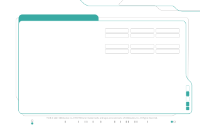
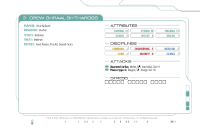
Dynamically-generated sheet with stress tracker and checkboxes

diff --git a/WebTools/src/exportpdf/generatedsheet.ts b/WebTools/src/exportpdf/generatedsheet.ts
@@ -1,5 +1,5 @@
-import { PDFDocument, PDFFont, PDFPage } from "@cantoo/pdf-lib";
-import { Column, FontSpecification, ICharacterSheet, LayoutHelper, Line, TextBlock } from "./icharactersheet";
+import { PDFDocument, PDFFont, PDFForm, PDFPage } from "@cantoo/pdf-lib";
+import { Column, ICharacterSheet, LayoutHelper } from "./icharactersheet";
 import fontkit from '@pdf-lib/fontkit'
 import { Construct } from "../common/construct";
 import i18next from "i18next";
@@ -13,6 +13,8 @@ import { WeaponType } from "../helpers/weapons";
 import { CHALLENGE_DICE_NOTATION } from "../helpers/talents";
 import { XYLocation } from "../common/xyLocation";
 import { Paragraph } from "./paragraph";
+import { FontSpecification } from "./fontSpecification";
+import { TextBlock } from "./textBlock";
 
 abstract class BasicGeneratedSheet implements ICharacterSheet {
 
@@ -95,8 +97,8 @@ export class BasicGeneratedHalfPageCharacterSheet extends BasicGeneratedSheet {
     connBlock: Column = new Column(322, 158, 11, 58);
     engineeringBlock: Column = new Column(400, 143, 11, 58);
     securityBlock: Column = new Column(400, 158, 11, 58);
-    scienceBlock: Column = new Column(478, 143, 11, 58);
-    medicineBlock: Column = new Column(478, 158, 11, 58);
+    medicineBlock: Column = new Column(478, 143, 11, 58);
+    scienceBlock: Column = new Column(478, 158, 11, 58);
 
     remainingBlock: Column = new Column(322, 198, 338-198, 550-322);
 
@@ -108,7 +110,7 @@ export class BasicGeneratedHalfPageCharacterSheet extends BasicGeneratedSheet {
 
     getName(): string {
         return i18next.t(makeKey('Sheet.', "BasicGeneratedHalfPageCharacterSheet"),
-            { "defaultValue": "New 2nd Ed.-style Character Sheet"});
+            { "defaultValue": "New Half-Page 2nd Ed.-style Character Sheet"});
     }
     getThumbnailUrl(): string {
         return '/static/img/sheets/STA_2e_Half_Page_Sheet.png'
@@ -121,12 +123,15 @@ export class BasicGeneratedHalfPageCharacterSheet extends BasicGeneratedSheet {
         await super.initializeFonts(pdf);
 
         this.textFont = this.formFont;
-        const headingFontName = getCurrentLanguageCode() === "ru" ? "/static/font/bebas-neue-cyr.ttf" : "/static/font/Michroma-Regular.ttf";
-        const fontBytes = await fetch(headingFontName).then(res => res.arrayBuffer());
-        this.headingFont = await pdf.embedFont(fontBytes);
-
         const boldFontBytes = await fetch("/static/font/OpenSansCondensed-Bold.ttf").then(res => res.arrayBuffer());
         this.boldFont = await pdf.embedFont(boldFontBytes);
+
+        if (getCurrentLanguageCode() === "ru") {
+            this.headingFont = this.boldFont;
+        } else {
+            const fontBytes = await fetch("/static/font/Michroma-Regular.ttf").then(res => res.arrayBuffer());
+            this.headingFont = await pdf.embedFont(fontBytes);
+        }
 
         const symbolFontBytes = await fetch("/static/font/Trek_Arrowheads.ttf").then(res => res.arrayBuffer());
         this.symbolFont = await pdf.embedFont(symbolFontBytes);
@@ -204,7 +209,45 @@ export class BasicGeneratedHalfPageCharacterSheet extends BasicGeneratedSheet {
         this.writeName(page, character);
 
         this.writeSubTitle(page, i18next.t("Construct.other.attacks"), this.attacksTitleBlock);
-        this.writeAttacks(page, character, this.remainingBlock);
+        let remainingSpace = this.writeAttacks(page, character, this.remainingBlock);
+        let remainingColumn = new Column(remainingSpace.x, remainingSpace.y + 16,
+            13, this.remainingBlock.width);
+
+        this.writeSubTitle(page, i18next.t("Construct.other.stress"), remainingColumn);
+        remainingColumn = this.remainingBlock.bottomAfter(30 + remainingSpace.y - this.remainingBlock.start.y);
+        if (remainingColumn) {
+            this.writeStressBoxes(page, pdf.getForm(), character, remainingColumn);
+        }
+    }
+
+    writeStressBoxes(page: PDFPage, form: PDFForm, character: Character, column: Column) {
+        let stressBox = "m 1,0 h 7.5 c 0.554,0 1,0.446 1,1 v 7.5 c 0,0.554 -0.446,1 -1,1 H 1 C 0.446,9.5 0,9.054 0,8.5 V 1 C 0,0.446 0.446,0 1,0 Z";
+
+        let x = column.translatedStart(page).x;
+        const y = column.translatedStart(page).y;
+        for (let i = 0; i < character.stress; i++) {
+
+            page.moveTo(x, y);
+            page.drawSvgPath(stressBox, {
+                borderColor: SimpleColor.from("#000000").asPdfRbg(),
+                borderWidth: 0.5
+            });
+
+            let checkbox = form.createCheckBox("Stress " + (i+1));
+            checkbox.addToPage(page, {
+                x: x + 0.5,
+                y: y - 9,
+                width: 8.5,
+                height: 8.5,
+                textColor: SimpleColor.from("#000000").asPdfRbg(),
+                borderWidth: 0
+            });
+
+            x += 12;
+            if (i % 5 === 4) {
+                x += 10;
+            }
+        }
     }
 
     determineLabelFontSize() {
@@ -349,12 +392,12 @@ export class BasicGeneratedHalfPageCharacterSheet extends BasicGeneratedSheet {
 
         let indentedColumn = new Column(column.start.x + 15, column.start.y, column.height, column.width - 15);
 
-        let start = indentedColumn.translatedStart(page);
-        let startLine = new Line(start, indentedColumn);
         let bold = new FontSpecification(this.boldFont, 9);
         let standard = new FontSpecification(this.textFont, 9);
-        let symbols = new FontSpecification(this.symbolFont, 9);
         let security = character.skills[Skill.Security].expertise;
+
+        let paragraph = null;
+        let bottom = column.start;
 
         character.determineWeapons().forEach(w => {
             let type = w.type === WeaponType.MELEE ? i18next.t("Weapon.common.melee") : i18next.t("Weapon.common.ranged");
@@ -362,33 +405,23 @@ export class BasicGeneratedHalfPageCharacterSheet extends BasicGeneratedSheet {
             let text = type + ", " + (w.dice + security) + CHALLENGE_DICE_NOTATION + ", " + qualities
                 + (w.hands != null ? ", " + i18next.t("Weapon.common.size", { hands: w.hands }) : "");
 
-            let blocks = this.layoutHelper.createLines(w.name + ": ", bold, symbols, startLine, page);
-            let line = (blocks.length > 0) ? blocks[blocks.length - 1] : new Line(startLine.location, startLine.column);
+            paragraph = paragraph == null ? new Paragraph(page, this.layoutHelper, indentedColumn, this.symbolFont) : paragraph.nextParagraph(0);
+            paragraph.append(w.name + ": ", bold);
+            paragraph.append(text, standard);
+            paragraph.write();
 
-            if (blocks.length) {
-                let location = blocks[0].location;
-                page.moveTo(column.start.x, page.getHeight() - (location.y + blocks[0].height() + 3));
+            if (paragraph.lines.length) {
+                let location = paragraph.lines[0].location;
+                page.moveTo(column.start.x, page.getHeight() - (location.y + paragraph.lines[0].height() + 3));
                 page.drawSvgPath(BasicGeneratedHalfPageCharacterSheet.bulletPath, {
                     color: BasicGeneratedHalfPageCharacterSheet.tealColour.asPdfRbg(),
                     borderWidth: 0
                 });
             }
 
-            blocks.forEach((t, i) => {
-                if (i < (blocks.length -1)) {
-                    t.writeTextBlocks(page, SimpleColor.from("#000000"));
-                }
-            });
-
-            let textBlocks = this.layoutHelper.createLines(text, standard, symbols, line, page);
-
-            textBlocks.forEach(t => {
-                t.writeTextBlocks(page, SimpleColor.from("#000000"));
-            });
-            line = (textBlocks.length > 0) ? textBlocks[textBlocks.length - 1] : new Line(startLine.location, startLine.column);
-            startLine = new Line(new XYLocation(line.bottom().x, line.bottom().y), indentedColumn);
+            bottom = paragraph.bottom;
         });
 
-        return indentedColumn;
+        return new XYLocation(column.start.x, bottom.y);
     }
 }

diff --git a/WebTools/src/exportpdf/icharactersheet.ts b/WebTools/src/exportpdf/icharactersheet.ts
@@ -1,54 +1,10 @@
-import { PDFDocument, PDFFont, PDFPage } from "@cantoo/pdf-lib";
+import { PDFDocument, PDFPage } from "@cantoo/pdf-lib";
 import { Construct } from "../common/construct";
 import { XYLocation } from "../common/xyLocation";
 import { SimpleColor } from "../common/colour";
 import { CHALLENGE_DICE_NOTATION } from "../helpers/talents";
-
-export class TextBlock {
-    text: string;
-    fontSize: number;
-    font: PDFFont;
-    height: number;
-    width: number;
-    colour?: SimpleColor;
-
-    static create(text: string, fontSpec: FontSpecification, descender: boolean|number = false, colour?: SimpleColor) {
-
-        let weight = 0.5;
-        if (typeof descender === "boolean") {
-            if (descender === true) {
-                weight = 1;
-            }
-        } else {
-            weight = descender;
-        }
-
-        let textBlock = new TextBlock();
-        textBlock.text = text;
-        const textWidth = fontSpec.font.widthOfTextAtSize(text, fontSpec.size);
-        const textHeight = fontSpec.font.heightAtSize(fontSpec.size, { descender: false }) + this.descenderFor(fontSpec) * weight;
-        textBlock.height = textHeight;
-        textBlock.width = textWidth;
-        textBlock.font = fontSpec.font;
-        textBlock.fontSize = fontSpec.size;
-        textBlock.colour = colour;
-        return textBlock;
-    }
-
-    static descenderFor(fontSpec: FontSpecification) {
-        return fontSpec.font.heightAtSize(fontSpec.size) - fontSpec.font.heightAtSize(fontSpec.size, { descender: false });
-    }
-
-    writeToPage(x: number, y: number, page: PDFPage, color: SimpleColor) {
-        page.drawText(this.text, {
-            x: x,
-            y: y,
-            size: this.fontSize,
-            font: this.font,
-            color: this.colour == null ? color.asPdfRbg() : this.colour.asPdfRbg()
-        });
-    }
-}
+import { TextBlock } from "./textBlock";
+import { FontSpecification } from "./fontSpecification";
 
 export class Line {
     blocks: TextBlock[];
@@ -102,8 +58,6 @@ export class Line {
 }
 
 export class LayoutHelper {
-
-    symbolFont: PDFFont;
 
     createLines(text: string, fontSpec: FontSpecification, symbolStyle: FontSpecification, lines: Line|(Line[]), page: PDFPage, colour?: SimpleColor) {
         let result: Line[] = [];
@@ -222,15 +176,6 @@ export class LayoutHelper {
     }
 }
 
-export class FontSpecification {
-    font: PDFFont;
-    size: number;
-
-    constructor(font: PDFFont, size: number) {
-        this.font = font;
-        this.size = size;
-    }
-}
 
 
 export class Column {
@@ -256,8 +201,22 @@ export class Column {
         return new XYLocation(x, y);
     }
 
+    untranslateLocation(page: PDFPage, location: XYLocation) {
+        let x = location.x;
+        let y = page.getSize().height - location.y;
+        return new XYLocation(x, y);
+    }
+
     get end() {
         return new XYLocation(this.start.x + this.width, this.start.y + this.height);
+    }
+
+    bottomAfter(deltaY: number) {
+        if (deltaY <= this.height) {
+            return new Column(this.start.x, this.start.y + deltaY, this.height - deltaY, this.width);
+        } else {
+            return null;
+        }
     }
 }
 

diff --git a/WebTools/src/exportpdf/textBlock.ts b/WebTools/src/exportpdf/textBlock.ts
@@ -1,0 +1,50 @@
+import { PDFFont, PDFPage } from "@cantoo/pdf-lib";
+import { SimpleColor } from "../common/colour";
+import { FontSpecification } from "./fontSpecification";
+
+export class TextBlock {
+    text: string;
+    fontSize: number;
+    font: PDFFont;
+    height: number;
+    width: number;
+    colour?: SimpleColor;
+
+    static create(text: string, fontSpec: FontSpecification, descender: boolean|number = false, colour?: SimpleColor) {
+
+        let weight = 0.5;
+        if (typeof descender === "boolean") {
+            if (descender === true) {
+                weight = 1;
+            }
+        } else {
+            weight = descender;
+        }
+
+        let textBlock = new TextBlock();
+        textBlock.text = text;
+        const textWidth = fontSpec.font.widthOfTextAtSize(text, fontSpec.size);
+        const textHeight = fontSpec.font.heightAtSize(fontSpec.size, { descender: false }) + this.descenderFor(fontSpec) * weight;
+        textBlock.height = textHeight;
+        textBlock.width = textWidth;
+        textBlock.font = fontSpec.font;
+        textBlock.fontSize = fontSpec.size;
+        textBlock.colour = colour;
+        return textBlock;
+    }
+
+    static descenderFor(fontSpec: FontSpecification) {
+        return fontSpec.font.heightAtSize(fontSpec.size) - fontSpec.font.heightAtSize(fontSpec.size, { descender: false });
+    }
+
+    writeToPage(x: number, y: number, page: PDFPage, color: SimpleColor) {
+        page.drawText(this.text, {
+            x: x,
+            y: y,
+            size: this.fontSize,
+            font: this.font,
+            color: this.colour == null ? color.asPdfRbg() : this.colour.asPdfRbg()
+        });
+    }
+}
+

diff --git a/WebTools/src/exportpdf/paragraph.ts b/WebTools/src/exportpdf/paragraph.ts
@@ -1,7 +1,8 @@
 import { PDFFont, PDFPage } from "@cantoo/pdf-lib";
-import { Column, FontSpecification, LayoutHelper, Line } from "./icharactersheet";
+import { Column, LayoutHelper, Line } from "./icharactersheet";
 import { SimpleColor } from "../common/colour";
 import { XYLocation } from "../common/xyLocation";
+import { FontSpecification } from "./fontSpecification";
 
 export class Paragraph {
 
@@ -11,12 +12,14 @@ export class Paragraph {
     symbolFont: PDFFont;
     page: PDFPage;
 
+    // in PDF coordinate system
     private start?: XYLocation;
 
     constructor(page: PDFPage, layoutHelper: LayoutHelper, column: Column, symbolFont?: PDFFont) {
         this.layoutHelper = layoutHelper;
         this.column = column;
         this.page = page;
+        this.symbolFont = symbolFont;
     }
 
     private currentLine() {
@@ -49,5 +52,14 @@ export class Paragraph {
             result.start = newLocation;
         }
         return result;
+    }
+
+    get bottom() {
+        if (this.lines.length > 0) {
+            let line = this.lines[this.lines.length-1];
+            return this.column.untranslateLocation(this.page, line.bottom());
+        } else {
+            return this.column.start;
+        }
     }
 }

diff --git a/WebTools/src/helpers/sheets.ts b/WebTools/src/helpers/sheets.ts
@@ -20,9 +20,10 @@ import { CareersHelper } from './careers';
 import { TracksHelper } from './tracks';
 import { localizedFocus } from '../components/focusHelper';
 import { XYLocation } from '../common/xyLocation';
-import { Column, FontSpecification, ICharacterSheet, LayoutHelper, Line } from '../exportpdf/icharactersheet';
+import { Column, ICharacterSheet, LayoutHelper, Line } from '../exportpdf/icharactersheet';
 import { SimpleColor } from '../common/colour';
 import { BasicGeneratedHalfPageCharacterSheet } from '../exportpdf/generatedsheet';
+import { FontSpecification } from '../exportpdf/fontSpecification';
 
 
 abstract class BasicSheet implements ICharacterSheet {

diff --git a/WebTools/src/supportingcharacters/supportingCharacterPage.tsx b/WebTools/src/supportingcharacters/supportingCharacterPage.tsx
@@ -180,7 +180,7 @@ const SupportingCharacterPage : React.FC<ICharacterPageProperties> = ({character
                         <p>
                             {t('SupportingCharacter.whatPurpose')}
                         </p>
-                        <InputFieldAndLabel labelName={t('Construct.other.purpose')} value={character.jobAssignment} onChange={(value) => {
+                        <InputFieldAndLabel labelName={t('Construct.other.purpose')} value={character.jobAssignment ?? ""} onChange={(value) => {
                             store.dispatch(setCharacterAssignment(value));
                         }} id="purpose" />
                     </div>

diff --git a/WebTools/src/exportpdf/fontSpecification.ts b/WebTools/src/exportpdf/fontSpecification.ts
@@ -1,0 +1,11 @@
+import { PDFFont } from "@cantoo/pdf-lib";
+
+export class FontSpecification {
+    font: PDFFont;
+    size: number;
+
+    constructor(font: PDFFont, size: number) {
+        this.font = font;
+        this.size = size;
+    }
+}
